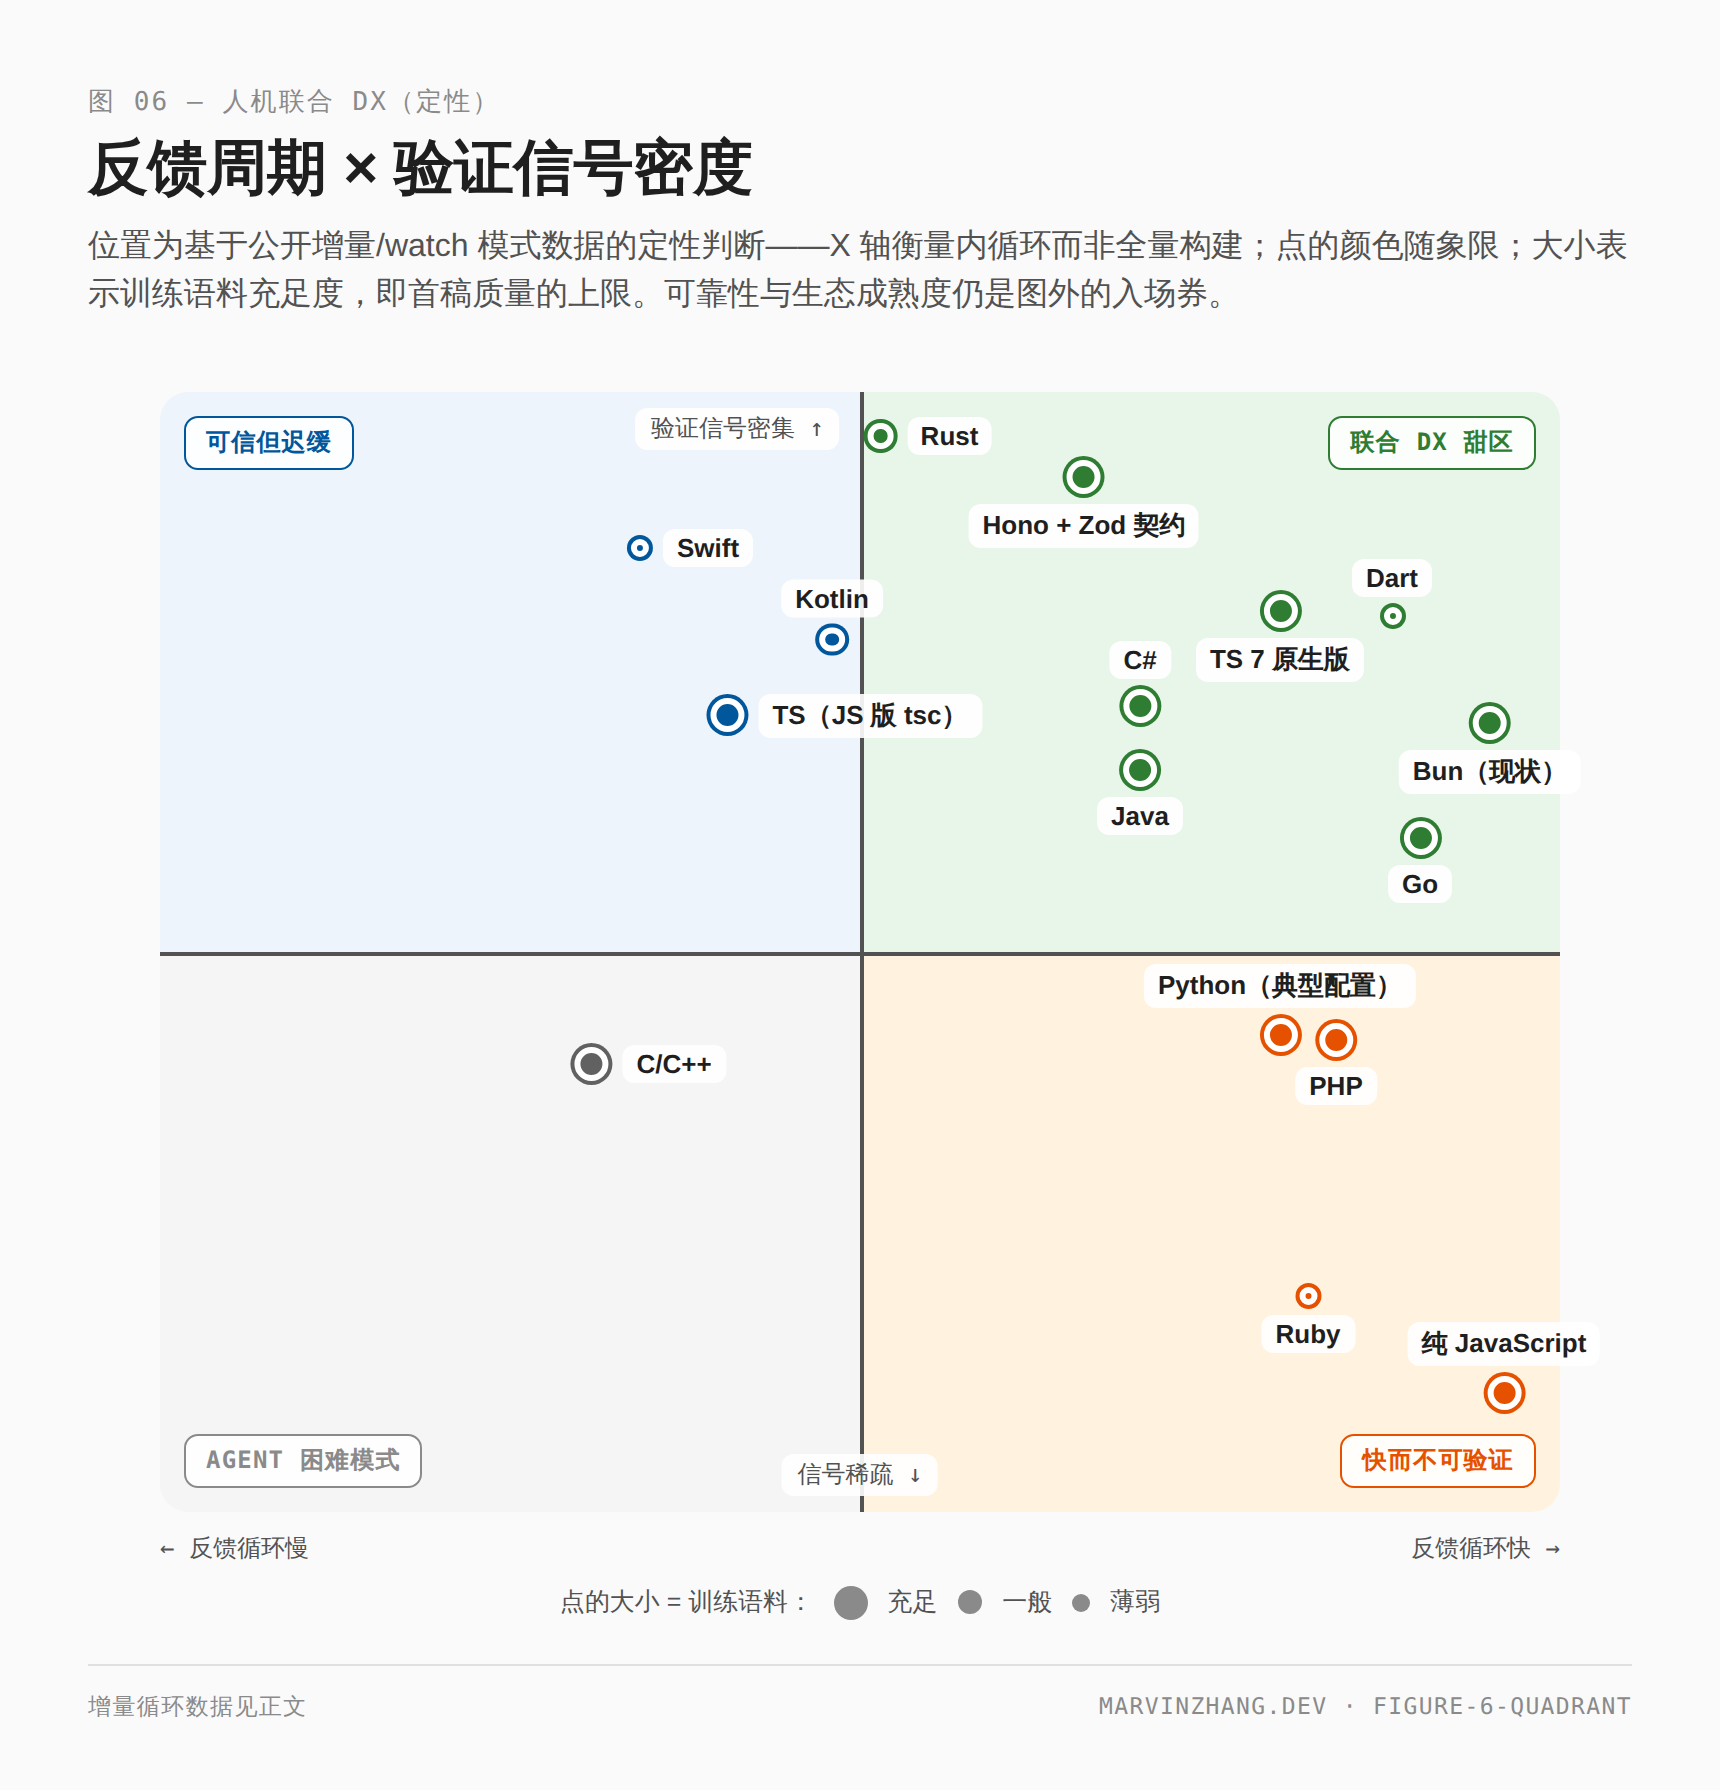
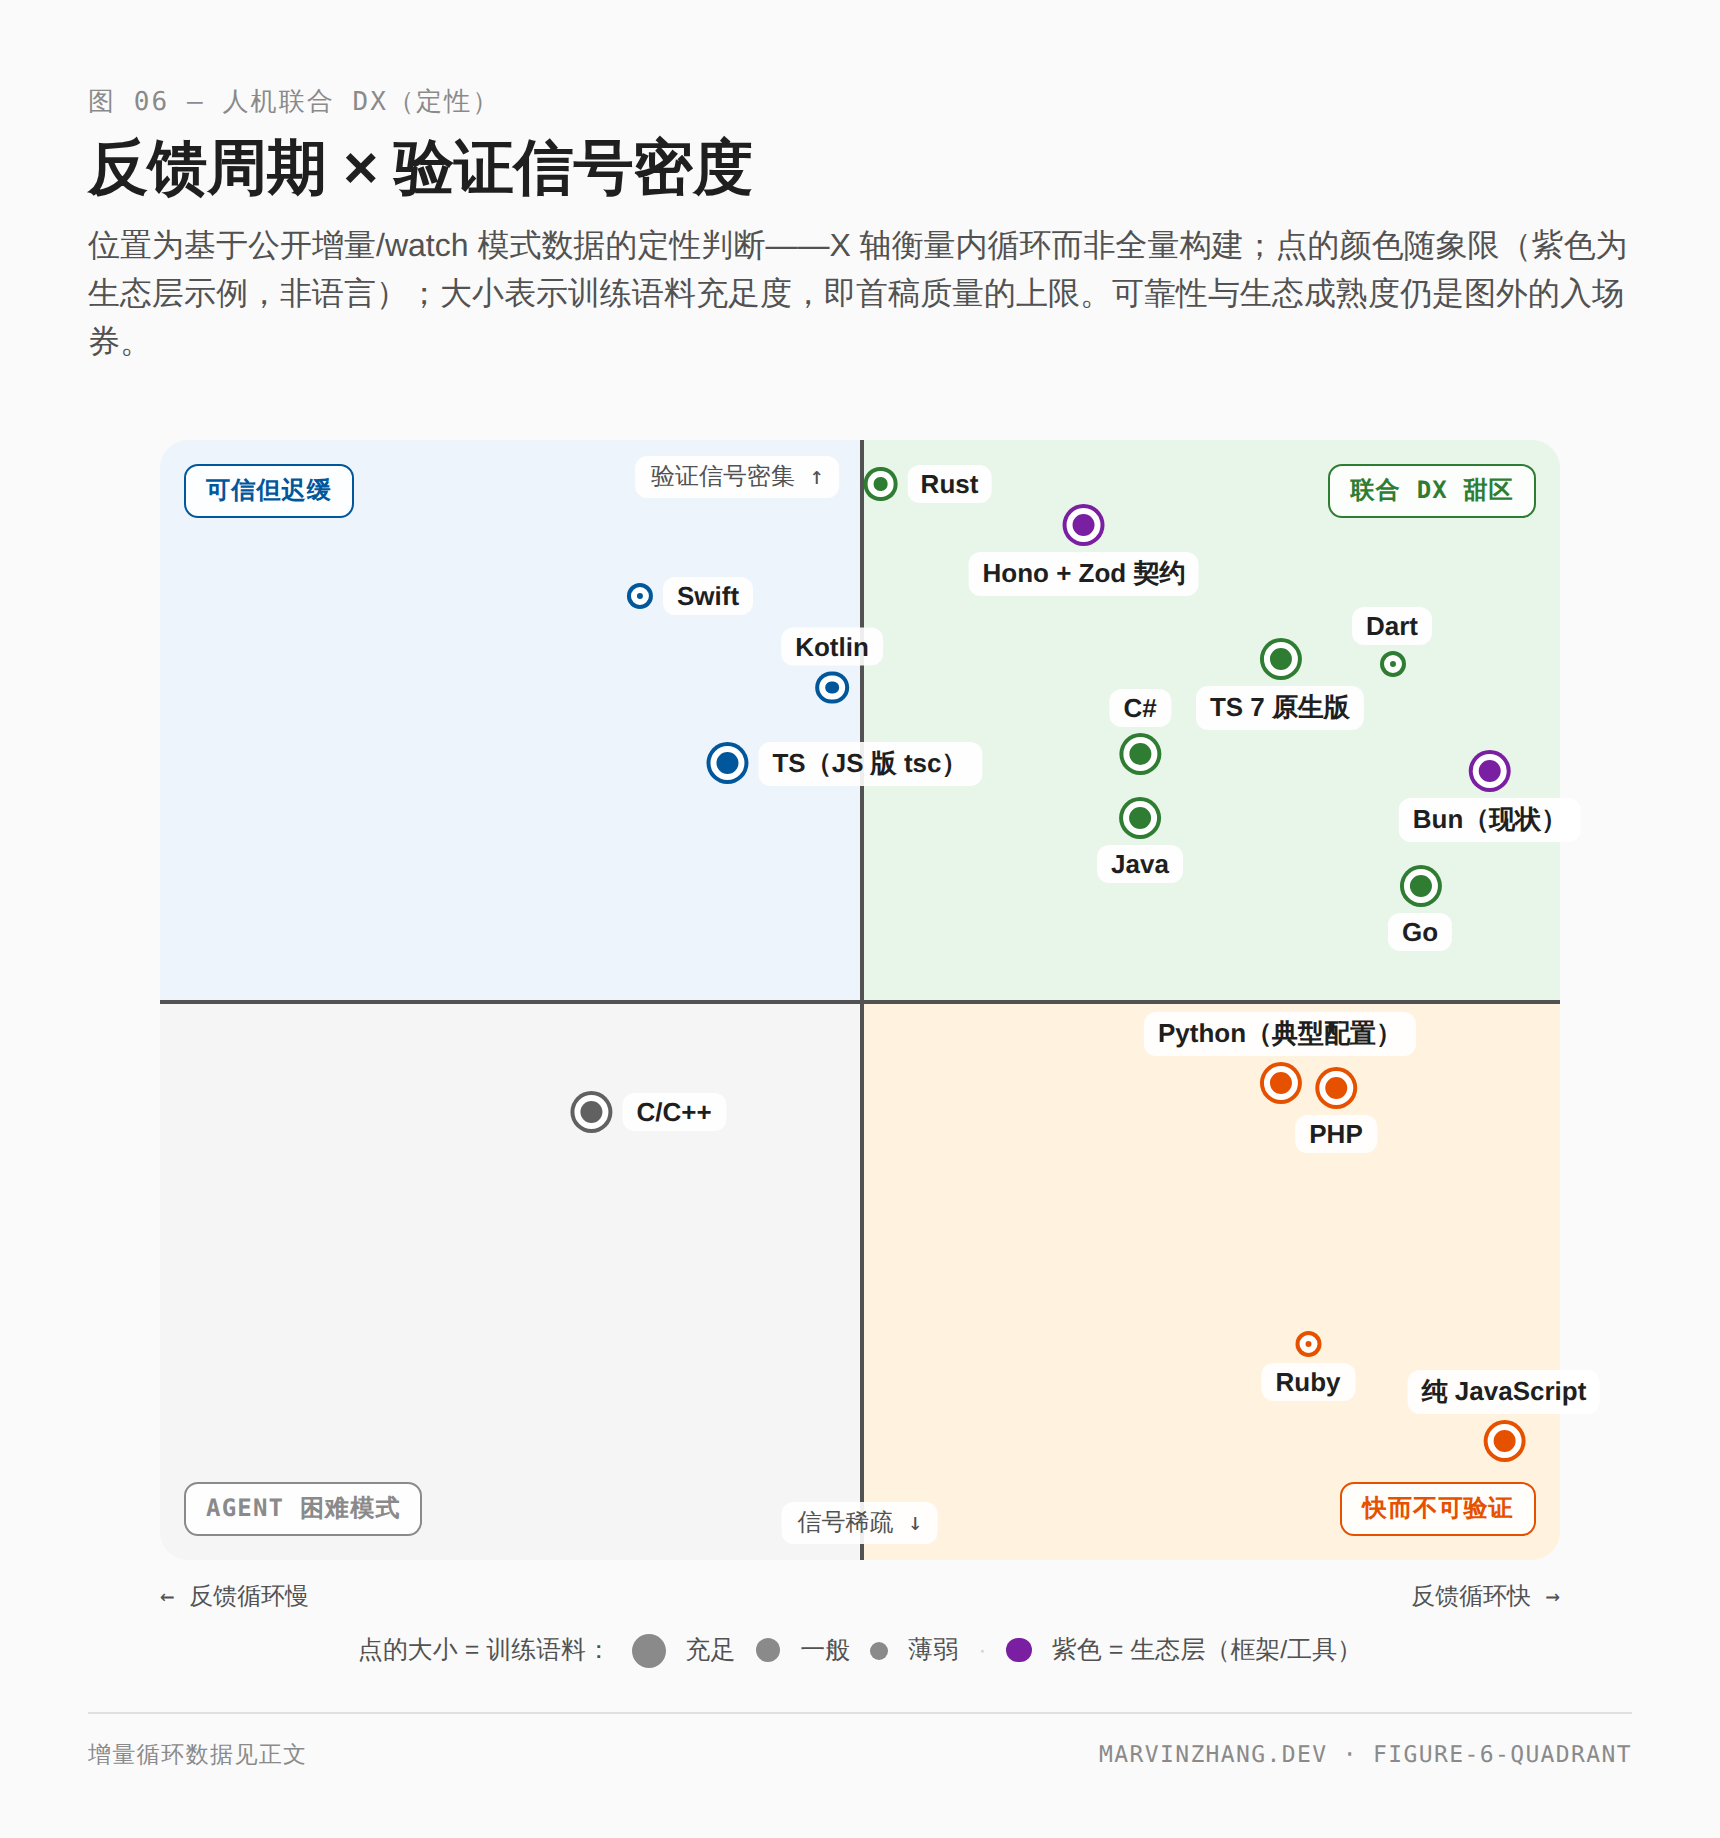
Quadrant: mark the two ecosystem exemplars purple, matching figure 7
- Hono + Zod and Bun are frameworks/tools, not languages; their dots now use the figure-7 ecosystem purple instead of the quadrant color, with a legend entry and subtitle note
- Alt texts updated in both locales

Claude-Session: https://claude.ai/code/session_015AgqLUuUsNDKkaPpExJqon

diff --git a/drafts/2026-07-06-stack-selection-in-the-agent-era/figures/figure-6-quadrant.en.html b/drafts/2026-07-06-stack-selection-in-the-agent-era/figures/figure-6-quadrant.en.html
@@ -81,7 +81,7 @@
 <div class="header">
   <div class="figno">Figure 06 — Joint DX, qualitatively</div>
   <h1>Loop latency × verification signal density</h1>
-  <div class="subtitle">Qualitative placements from published incremental/watch-mode data — X judges the inner loop, not cold full builds. Dot color follows the quadrant; dot size encodes training-corpus adequacy, the ceiling on first-draft quality. Reliability and ecosystem maturity remain entry tickets outside the chart.</div>
+  <div class="subtitle">Qualitative placements from published incremental/watch-mode data — X judges the inner loop, not cold full builds. Dot color follows the quadrant (purple = ecosystem exemplars, not languages); dot size encodes training-corpus adequacy, the ceiling on first-draft quality. Reliability and ecosystem maturity remain entry tickets outside the chart.</div>
 </div>
 
     <div class="plotwrap">
@@ -94,7 +94,7 @@
       <div class="qlabel ql4">Fast but unverifiable</div>
       <div class="ycap top">dense verification signals ↑</div>
       <div class="ycap bot">sparse signals ↓</div>
-      <div class="pt" style="left:55.00000000000001%;top:4.0000000000000036%;color:#2e7d32;text-align:center"><div style="display:flex;align-items:center;gap:7px"><div class="dot" style="width:12.5px;height:12.5px;margin:0"></div><div class="lbl" style="margin-top:0">Rust</div></div></div><div class="pt" style="left:38.0%;top:14.000000000000002%;color:#01579b;text-align:center"><div style="display:flex;align-items:center;gap:7px"><div class="dot" style="width:9px;height:9px;margin:0"></div><div class="lbl" style="margin-top:0">Swift</div></div></div><div class="pt" style="left:48.0%;top:19.999999999999996%;color:#01579b;text-align:center"><div class="lbl" style="margin-top:0;margin-bottom:5px">Kotlin</div><div class="dot" style="width:12.5px;height:12.5px;margin:0 auto"></div></div><div class="pt" style="left:49.0%;top:29.000000000000004%;color:#01579b;text-align:center"><div style="display:flex;align-items:center;gap:7px"><div class="dot" style="width:17px;height:17px;margin:0"></div><div class="lbl" style="margin-top:0">TS on JS-based tsc</div></div></div><div class="pt" style="left:66.0%;top:9.999999999999998%;color:#2e7d32;text-align:center"><div class="dot" style="width:17px;height:17px;margin:0 auto"></div><div class="lbl">Hono + Zod contract</div></div><div class="pt" style="left:70.0%;top:26.0%;color:#2e7d32;text-align:center"><div class="lbl" style="margin-top:0;margin-bottom:5px">C#</div><div class="dot" style="width:17px;height:17px;margin:0 auto"></div></div><div class="pt" style="left:70.0%;top:36.0%;color:#2e7d32;text-align:center"><div class="dot" style="width:17px;height:17px;margin:0 auto"></div><div class="lbl">Java</div></div><div class="pt" style="left:80.0%;top:21.999999999999996%;color:#2e7d32;text-align:center"><div class="dot" style="width:17px;height:17px;margin:0 auto"></div><div class="lbl">TS 7 native</div></div><div class="pt" style="left:88.0%;top:18.000000000000004%;color:#2e7d32;text-align:center"><div class="lbl" style="margin-top:0;margin-bottom:5px">Dart</div><div class="dot" style="width:9px;height:9px;margin:0 auto"></div></div><div class="pt" style="left:95.0%;top:31.999999999999996%;color:#2e7d32;text-align:center"><div class="dot" style="width:17px;height:17px;margin:0 auto"></div><div class="lbl">Bun, today</div></div><div class="pt" style="left:90.0%;top:42.00000000000001%;color:#2e7d32;text-align:center"><div class="dot" style="width:17px;height:17px;margin:0 auto"></div><div class="lbl">Go</div></div><div class="pt" style="left:80.0%;top:55.00000000000001%;color:#e65100;text-align:center"><div class="lbl" style="margin-top:0;margin-bottom:5px">Python, typical setup</div><div class="dot" style="width:17px;height:17px;margin:0 auto"></div></div><div class="pt" style="left:84.0%;top:60.0%;color:#e65100;text-align:center"><div class="dot" style="width:17px;height:17px;margin:0 auto"></div><div class="lbl">PHP</div></div><div class="pt" style="left:35.0%;top:60.0%;color:#616161;text-align:center"><div style="display:flex;align-items:center;gap:7px"><div class="dot" style="width:17px;height:17px;margin:0"></div><div class="lbl" style="margin-top:0">C/C++</div></div></div><div class="pt" style="left:82.0%;top:83.0%;color:#e65100;text-align:center"><div class="dot" style="width:9px;height:9px;margin:0 auto"></div><div class="lbl">Ruby</div></div><div class="pt" style="left:96.0%;top:87.0%;color:#e65100;text-align:center"><div class="lbl" style="margin-top:0;margin-bottom:5px">Plain JavaScript</div><div class="dot" style="width:17px;height:17px;margin:0 auto"></div></div>
+      <div class="pt" style="left:55.00000000000001%;top:4.0000000000000036%;color:#2e7d32;text-align:center"><div style="display:flex;align-items:center;gap:7px"><div class="dot" style="width:12.5px;height:12.5px;margin:0"></div><div class="lbl" style="margin-top:0">Rust</div></div></div><div class="pt" style="left:38.0%;top:14.000000000000002%;color:#01579b;text-align:center"><div style="display:flex;align-items:center;gap:7px"><div class="dot" style="width:9px;height:9px;margin:0"></div><div class="lbl" style="margin-top:0">Swift</div></div></div><div class="pt" style="left:48.0%;top:19.999999999999996%;color:#01579b;text-align:center"><div class="lbl" style="margin-top:0;margin-bottom:5px">Kotlin</div><div class="dot" style="width:12.5px;height:12.5px;margin:0 auto"></div></div><div class="pt" style="left:49.0%;top:29.000000000000004%;color:#01579b;text-align:center"><div style="display:flex;align-items:center;gap:7px"><div class="dot" style="width:17px;height:17px;margin:0"></div><div class="lbl" style="margin-top:0">TS on JS-based tsc</div></div></div><div class="pt" style="left:66.0%;top:9.999999999999998%;color:#7b1fa2;text-align:center"><div class="dot" style="width:17px;height:17px;margin:0 auto"></div><div class="lbl">Hono + Zod contract</div></div><div class="pt" style="left:70.0%;top:26.0%;color:#2e7d32;text-align:center"><div class="lbl" style="margin-top:0;margin-bottom:5px">C#</div><div class="dot" style="width:17px;height:17px;margin:0 auto"></div></div><div class="pt" style="left:70.0%;top:36.0%;color:#2e7d32;text-align:center"><div class="dot" style="width:17px;height:17px;margin:0 auto"></div><div class="lbl">Java</div></div><div class="pt" style="left:80.0%;top:21.999999999999996%;color:#2e7d32;text-align:center"><div class="dot" style="width:17px;height:17px;margin:0 auto"></div><div class="lbl">TS 7 native</div></div><div class="pt" style="left:88.0%;top:18.000000000000004%;color:#2e7d32;text-align:center"><div class="lbl" style="margin-top:0;margin-bottom:5px">Dart</div><div class="dot" style="width:9px;height:9px;margin:0 auto"></div></div><div class="pt" style="left:95.0%;top:31.999999999999996%;color:#7b1fa2;text-align:center"><div class="dot" style="width:17px;height:17px;margin:0 auto"></div><div class="lbl">Bun, today</div></div><div class="pt" style="left:90.0%;top:42.00000000000001%;color:#2e7d32;text-align:center"><div class="dot" style="width:17px;height:17px;margin:0 auto"></div><div class="lbl">Go</div></div><div class="pt" style="left:80.0%;top:55.00000000000001%;color:#e65100;text-align:center"><div class="lbl" style="margin-top:0;margin-bottom:5px">Python, typical setup</div><div class="dot" style="width:17px;height:17px;margin:0 auto"></div></div><div class="pt" style="left:84.0%;top:60.0%;color:#e65100;text-align:center"><div class="dot" style="width:17px;height:17px;margin:0 auto"></div><div class="lbl">PHP</div></div><div class="pt" style="left:35.0%;top:60.0%;color:#616161;text-align:center"><div style="display:flex;align-items:center;gap:7px"><div class="dot" style="width:17px;height:17px;margin:0"></div><div class="lbl" style="margin-top:0">C/C++</div></div></div><div class="pt" style="left:82.0%;top:83.0%;color:#e65100;text-align:center"><div class="dot" style="width:9px;height:9px;margin:0 auto"></div><div class="lbl">Ruby</div></div><div class="pt" style="left:96.0%;top:87.0%;color:#e65100;text-align:center"><div class="lbl" style="margin-top:0;margin-bottom:5px">Plain JavaScript</div><div class="dot" style="width:17px;height:17px;margin:0 auto"></div></div>
     </div>
     </div>
     <div class="axcap"><div>← slower feedback loop</div><div>faster feedback loop →</div></div>
@@ -102,6 +102,8 @@
       <span class="d" style="width:17px;height:17px"></span><span>rich</span>
       <span class="d" style="width:12.5px;height:12.5px"></span><span>medium</span>
       <span class="d" style="width:9px;height:9px"></span><span>thin</span>
+      <span style="color:#d4d4d4">·</span>
+      <span class="d" style="width:12.5px;height:12.5px;background:#7b1fa2"></span><span>purple = ecosystem (framework/tool)</span>
     </div>
 <div class="footer"><div>Incremental-loop data, see body</div><div>marvinzhang.dev · figure-6-quadrant</div></div>
 </div>

diff --git a/drafts/2026-07-06-stack-selection-in-the-agent-era/figures/figure-6-quadrant.zh.html b/drafts/2026-07-06-stack-selection-in-the-agent-era/figures/figure-6-quadrant.zh.html
@@ -81,7 +81,7 @@
 <div class="header">
   <div class="figno">图 06 — 人机联合 DX（定性）</div>
   <h1>反馈周期 × 验证信号密度</h1>
-  <div class="subtitle">位置为基于公开增量/watch 模式数据的定性判断——X 轴衡量内循环而非全量构建；点的颜色随象限；大小表示训练语料充足度，即首稿质量的上限。可靠性与生态成熟度仍是图外的入场券。</div>
+  <div class="subtitle">位置为基于公开增量/watch 模式数据的定性判断——X 轴衡量内循环而非全量构建；点的颜色随象限（紫色为生态层示例，非语言）；大小表示训练语料充足度，即首稿质量的上限。可靠性与生态成熟度仍是图外的入场券。</div>
 </div>
 
     <div class="plotwrap">
@@ -94,7 +94,7 @@
       <div class="qlabel ql4">快而不可验证</div>
       <div class="ycap top">验证信号密集 ↑</div>
       <div class="ycap bot">信号稀疏 ↓</div>
-      <div class="pt" style="left:55.00000000000001%;top:4.0000000000000036%;color:#2e7d32;text-align:center"><div style="display:flex;align-items:center;gap:7px"><div class="dot" style="width:12.5px;height:12.5px;margin:0"></div><div class="lbl" style="margin-top:0">Rust</div></div></div><div class="pt" style="left:38.0%;top:14.000000000000002%;color:#01579b;text-align:center"><div style="display:flex;align-items:center;gap:7px"><div class="dot" style="width:9px;height:9px;margin:0"></div><div class="lbl" style="margin-top:0">Swift</div></div></div><div class="pt" style="left:48.0%;top:19.999999999999996%;color:#01579b;text-align:center"><div class="lbl" style="margin-top:0;margin-bottom:5px">Kotlin</div><div class="dot" style="width:12.5px;height:12.5px;margin:0 auto"></div></div><div class="pt" style="left:49.0%;top:29.000000000000004%;color:#01579b;text-align:center"><div style="display:flex;align-items:center;gap:7px"><div class="dot" style="width:17px;height:17px;margin:0"></div><div class="lbl" style="margin-top:0">TS（JS 版 tsc）</div></div></div><div class="pt" style="left:66.0%;top:9.999999999999998%;color:#2e7d32;text-align:center"><div class="dot" style="width:17px;height:17px;margin:0 auto"></div><div class="lbl">Hono + Zod 契约</div></div><div class="pt" style="left:70.0%;top:26.0%;color:#2e7d32;text-align:center"><div class="lbl" style="margin-top:0;margin-bottom:5px">C#</div><div class="dot" style="width:17px;height:17px;margin:0 auto"></div></div><div class="pt" style="left:70.0%;top:36.0%;color:#2e7d32;text-align:center"><div class="dot" style="width:17px;height:17px;margin:0 auto"></div><div class="lbl">Java</div></div><div class="pt" style="left:80.0%;top:21.999999999999996%;color:#2e7d32;text-align:center"><div class="dot" style="width:17px;height:17px;margin:0 auto"></div><div class="lbl">TS 7 原生版</div></div><div class="pt" style="left:88.0%;top:18.000000000000004%;color:#2e7d32;text-align:center"><div class="lbl" style="margin-top:0;margin-bottom:5px">Dart</div><div class="dot" style="width:9px;height:9px;margin:0 auto"></div></div><div class="pt" style="left:95.0%;top:31.999999999999996%;color:#2e7d32;text-align:center"><div class="dot" style="width:17px;height:17px;margin:0 auto"></div><div class="lbl">Bun（现状）</div></div><div class="pt" style="left:90.0%;top:42.00000000000001%;color:#2e7d32;text-align:center"><div class="dot" style="width:17px;height:17px;margin:0 auto"></div><div class="lbl">Go</div></div><div class="pt" style="left:80.0%;top:55.00000000000001%;color:#e65100;text-align:center"><div class="lbl" style="margin-top:0;margin-bottom:5px">Python（典型配置）</div><div class="dot" style="width:17px;height:17px;margin:0 auto"></div></div><div class="pt" style="left:84.0%;top:60.0%;color:#e65100;text-align:center"><div class="dot" style="width:17px;height:17px;margin:0 auto"></div><div class="lbl">PHP</div></div><div class="pt" style="left:35.0%;top:60.0%;color:#616161;text-align:center"><div style="display:flex;align-items:center;gap:7px"><div class="dot" style="width:17px;height:17px;margin:0"></div><div class="lbl" style="margin-top:0">C/C++</div></div></div><div class="pt" style="left:82.0%;top:83.0%;color:#e65100;text-align:center"><div class="dot" style="width:9px;height:9px;margin:0 auto"></div><div class="lbl">Ruby</div></div><div class="pt" style="left:96.0%;top:87.0%;color:#e65100;text-align:center"><div class="lbl" style="margin-top:0;margin-bottom:5px">纯 JavaScript</div><div class="dot" style="width:17px;height:17px;margin:0 auto"></div></div>
+      <div class="pt" style="left:55.00000000000001%;top:4.0000000000000036%;color:#2e7d32;text-align:center"><div style="display:flex;align-items:center;gap:7px"><div class="dot" style="width:12.5px;height:12.5px;margin:0"></div><div class="lbl" style="margin-top:0">Rust</div></div></div><div class="pt" style="left:38.0%;top:14.000000000000002%;color:#01579b;text-align:center"><div style="display:flex;align-items:center;gap:7px"><div class="dot" style="width:9px;height:9px;margin:0"></div><div class="lbl" style="margin-top:0">Swift</div></div></div><div class="pt" style="left:48.0%;top:19.999999999999996%;color:#01579b;text-align:center"><div class="lbl" style="margin-top:0;margin-bottom:5px">Kotlin</div><div class="dot" style="width:12.5px;height:12.5px;margin:0 auto"></div></div><div class="pt" style="left:49.0%;top:29.000000000000004%;color:#01579b;text-align:center"><div style="display:flex;align-items:center;gap:7px"><div class="dot" style="width:17px;height:17px;margin:0"></div><div class="lbl" style="margin-top:0">TS（JS 版 tsc）</div></div></div><div class="pt" style="left:66.0%;top:9.999999999999998%;color:#7b1fa2;text-align:center"><div class="dot" style="width:17px;height:17px;margin:0 auto"></div><div class="lbl">Hono + Zod 契约</div></div><div class="pt" style="left:70.0%;top:26.0%;color:#2e7d32;text-align:center"><div class="lbl" style="margin-top:0;margin-bottom:5px">C#</div><div class="dot" style="width:17px;height:17px;margin:0 auto"></div></div><div class="pt" style="left:70.0%;top:36.0%;color:#2e7d32;text-align:center"><div class="dot" style="width:17px;height:17px;margin:0 auto"></div><div class="lbl">Java</div></div><div class="pt" style="left:80.0%;top:21.999999999999996%;color:#2e7d32;text-align:center"><div class="dot" style="width:17px;height:17px;margin:0 auto"></div><div class="lbl">TS 7 原生版</div></div><div class="pt" style="left:88.0%;top:18.000000000000004%;color:#2e7d32;text-align:center"><div class="lbl" style="margin-top:0;margin-bottom:5px">Dart</div><div class="dot" style="width:9px;height:9px;margin:0 auto"></div></div><div class="pt" style="left:95.0%;top:31.999999999999996%;color:#7b1fa2;text-align:center"><div class="dot" style="width:17px;height:17px;margin:0 auto"></div><div class="lbl">Bun（现状）</div></div><div class="pt" style="left:90.0%;top:42.00000000000001%;color:#2e7d32;text-align:center"><div class="dot" style="width:17px;height:17px;margin:0 auto"></div><div class="lbl">Go</div></div><div class="pt" style="left:80.0%;top:55.00000000000001%;color:#e65100;text-align:center"><div class="lbl" style="margin-top:0;margin-bottom:5px">Python（典型配置）</div><div class="dot" style="width:17px;height:17px;margin:0 auto"></div></div><div class="pt" style="left:84.0%;top:60.0%;color:#e65100;text-align:center"><div class="dot" style="width:17px;height:17px;margin:0 auto"></div><div class="lbl">PHP</div></div><div class="pt" style="left:35.0%;top:60.0%;color:#616161;text-align:center"><div style="display:flex;align-items:center;gap:7px"><div class="dot" style="width:17px;height:17px;margin:0"></div><div class="lbl" style="margin-top:0">C/C++</div></div></div><div class="pt" style="left:82.0%;top:83.0%;color:#e65100;text-align:center"><div class="dot" style="width:9px;height:9px;margin:0 auto"></div><div class="lbl">Ruby</div></div><div class="pt" style="left:96.0%;top:87.0%;color:#e65100;text-align:center"><div class="lbl" style="margin-top:0;margin-bottom:5px">纯 JavaScript</div><div class="dot" style="width:17px;height:17px;margin:0 auto"></div></div>
     </div>
     </div>
     <div class="axcap"><div>← 反馈循环慢</div><div>反馈循环快 →</div></div>
@@ -102,6 +102,8 @@
       <span class="d" style="width:17px;height:17px"></span><span>充足</span>
       <span class="d" style="width:12.5px;height:12.5px"></span><span>一般</span>
       <span class="d" style="width:9px;height:9px"></span><span>薄弱</span>
+      <span style="color:#d4d4d4">·</span>
+      <span class="d" style="width:12.5px;height:12.5px;background:#7b1fa2"></span><span>紫色 = 生态层（框架/工具）</span>
     </div>
 <div class="footer"><div>增量循环数据见正文</div><div>marvinzhang.dev · figure-6-quadrant</div></div>
 </div>

diff --git a/drafts/2026-07-06-stack-selection-in-the-agent-era/figures/build_figures.py b/drafts/2026-07-06-stack-selection-in-the-agent-era/figures/build_figures.py
@@ -506,10 +506,10 @@ F5 = {
   title="Figure 6 — A two-axis selection frame",
   figno="Figure 06 — Joint DX, qualitatively",
   h1="Loop latency × verification signal density",
-  subtitle="Qualitative placements from published incremental/watch-mode data — X judges the inner loop, not cold full builds. Dot color follows the quadrant; dot size encodes training-corpus adequacy, the ceiling on first-draft quality. Reliability and ecosystem maturity remain entry tickets outside the chart.",
+  subtitle="Qualitative placements from published incremental/watch-mode data — X judges the inner loop, not cold full builds. Dot color follows the quadrant (purple = ecosystem exemplars, not languages); dot size encodes training-corpus adequacy, the ceiling on first-draft quality. Reliability and ecosystem maturity remain entry tickets outside the chart.",
   quads=("Joint-DX sweet spot", "Trustworthy but sluggish", "Hard mode for agents", "Fast but unverifiable"),
   xl=("slower feedback loop", "faster feedback loop"),
-  legend=("Dot size = training corpus:", "rich", "medium", "thin"),
+  legend=("Dot size = training corpus:", "rich", "medium", "thin", "purple = ecosystem (framework/tool)"),
   yl=("dense verification signals ↑", "sparse signals ↓"),
   pts=[
    ("Rust", 0.55, 0.96, "M", "right"),
@@ -535,10 +535,10 @@ F5 = {
   title="图 6 — 两轴选型框架",
   figno="图 06 — 人机联合 DX（定性）",
   h1="反馈周期 × 验证信号密度",
-  subtitle="位置为基于公开增量/watch 模式数据的定性判断——X 轴衡量内循环而非全量构建；点的颜色随象限；大小表示训练语料充足度，即首稿质量的上限。可靠性与生态成熟度仍是图外的入场券。",
+  subtitle="位置为基于公开增量/watch 模式数据的定性判断——X 轴衡量内循环而非全量构建；点的颜色随象限（紫色为生态层示例，非语言）；大小表示训练语料充足度，即首稿质量的上限。可靠性与生态成熟度仍是图外的入场券。",
   quads=("联合 DX 甜区", "可信但迟缓", "agent 困难模式", "快而不可验证"),
   xl=("反馈循环慢", "反馈循环快"),
-  legend=("点的大小 = 训练语料：", "充足", "一般", "薄弱"),
+  legend=("点的大小 = 训练语料：", "充足", "一般", "薄弱", "紫色 = 生态层（框架/工具）"),
   yl=("验证信号密集 ↑", "信号稀疏 ↓"),
   pts=[
    ("Rust", 0.55, 0.96, "M", "right"),
@@ -563,6 +563,7 @@ F5 = {
 }
 
 SIZES = {"L": 17, "M": 12.5, "S": 9}
+ECO_NAMES = {"Hono + Zod contract", "Hono + Zod 契约", "Bun, today", "Bun（现状）"}
 def quad_color(x, y):
     if x >= 0.5 and y >= 0.5: return "#2e7d32"
     if x < 0.5 and y >= 0.5: return "#01579b"
@@ -574,7 +575,7 @@ for lang, d in F5.items():
         left = x * 100
         top = (1 - y) * 100
         px = SIZES[tier]
-        color = quad_color(x, y)
+        color = "#7b1fa2" if name in ECO_NAMES else quad_color(x, y)
         def dot(margin):
             return f'<div class="dot" style="width:{px}px;height:{px}px;margin:{margin}"></div>'
         if side == "top":
@@ -604,6 +605,8 @@ for lang, d in F5.items():
       <span class="d" style="width:17px;height:17px"></span><span>{d['legend'][1]}</span>
       <span class="d" style="width:12.5px;height:12.5px"></span><span>{d['legend'][2]}</span>
       <span class="d" style="width:9px;height:9px"></span><span>{d['legend'][3]}</span>
+      <span style="color:#d4d4d4">·</span>
+      <span class="d" style="width:12.5px;height:12.5px;background:#7b1fa2"></span><span>{d['legend'][4]}</span>
     </div>"""
     emit("figure-6-quadrant", lang, d["title"], d["figno"], d["h1"], d["subtitle"], body, d["footleft"], F5_CSS)
 